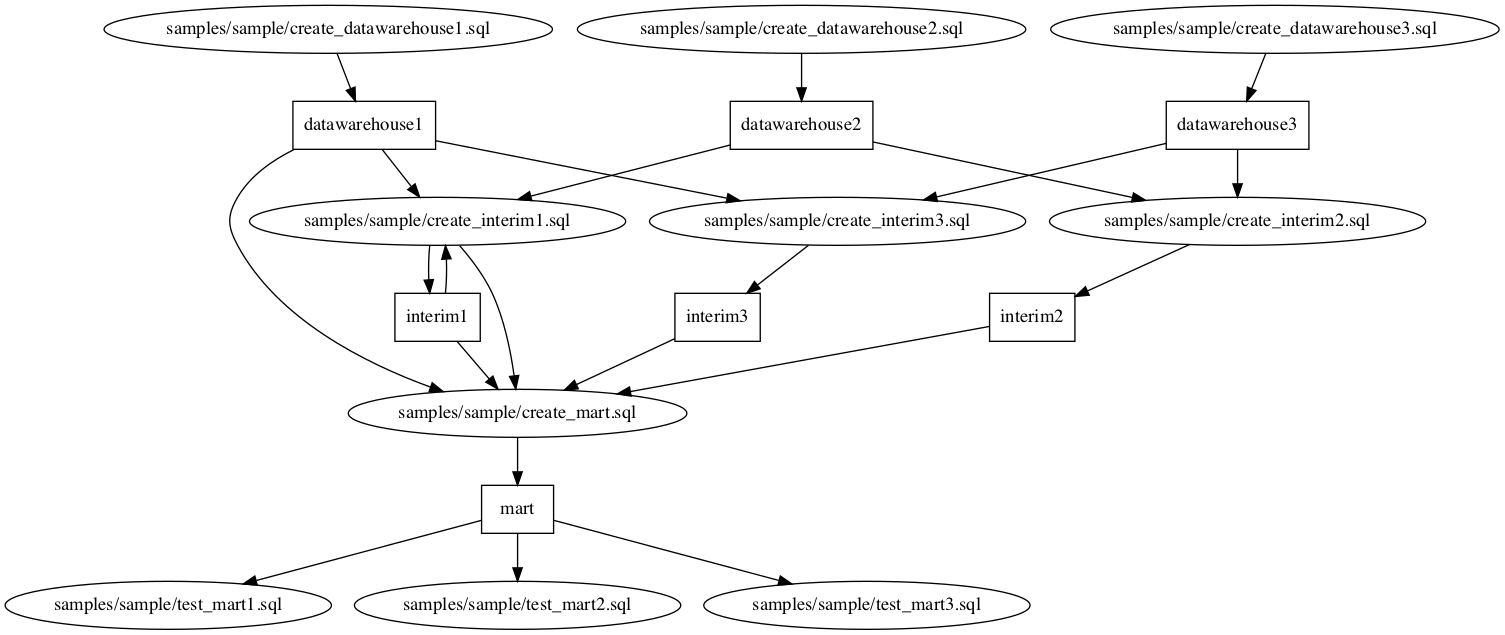
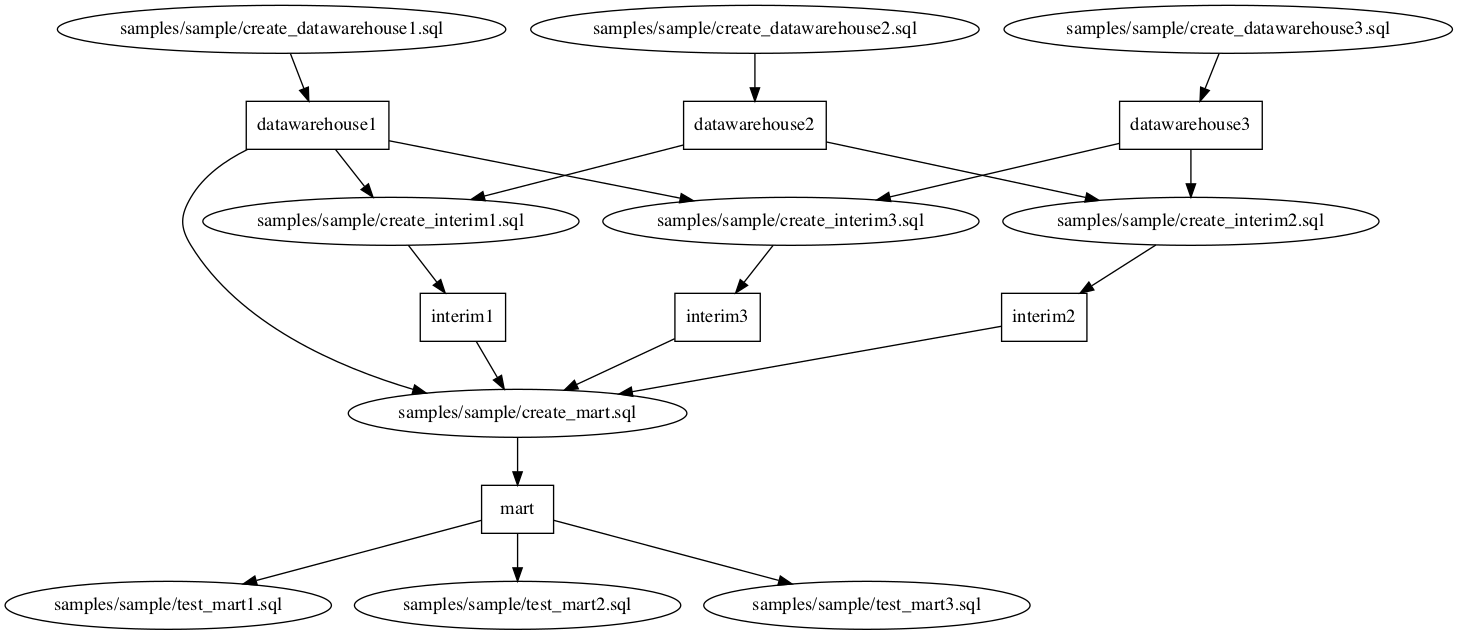
Fix cycles caused by create statements and mutations

diff --git a/alphasql/alphadag.cc b/alphasql/alphadag.cc
@@ -88,11 +88,23 @@ int main(int argc, char* argv[]) {
   const bool side_effect_first = absl::GetFlag(FLAGS_side_effect_first);
   for (auto& [table_name, table_queries] : table_queries_map) {
     if (side_effect_first) {
-      for (const auto& insert : table_queries.inserts) {
-        alphasql::UpdateEdgesWithoutSelf(depends_on, table_queries.others, insert);
+      auto inserts_it = table_queries.inserts.begin();
+      while (inserts_it != table_queries.inserts.end()) {
+        if (*inserts_it == table_queries.create) {
+          inserts_it = table_queries.inserts.erase(inserts_it);
+        } else {
+          alphasql::UpdateEdgesWithoutSelf(depends_on, table_queries.others, *inserts_it);
+          ++inserts_it;
+        }
       }
-      for (const auto& update : table_queries.updates) {
-        alphasql::UpdateEdgesWithoutSelf(depends_on, table_queries.others, update);
+      auto updates_it = table_queries.updates.begin();
+      while (updates_it != table_queries.updates.end()) {
+        if (*updates_it == table_queries.create) {
+          updates_it = table_queries.updates.erase(updates_it);
+        } else {
+          alphasql::UpdateEdgesWithoutSelf(depends_on, table_queries.others, *updates_it);
+          ++updates_it;
+        }
       }
       if (with_tables) {
         alphasql::UpdateEdgesWithoutSelf(depends_on, table_queries.inserts, table_name);
